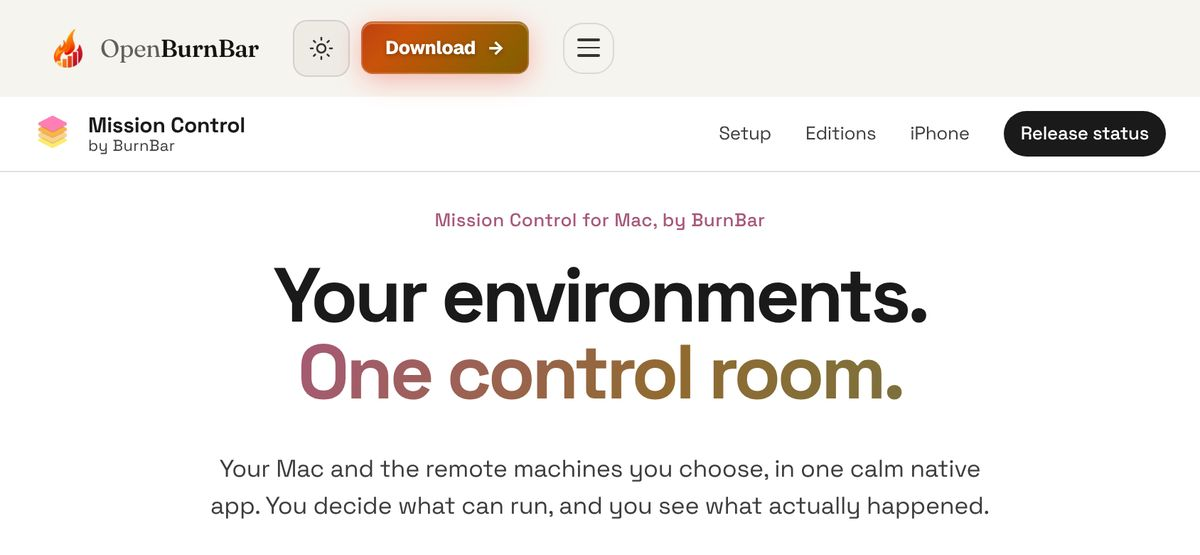
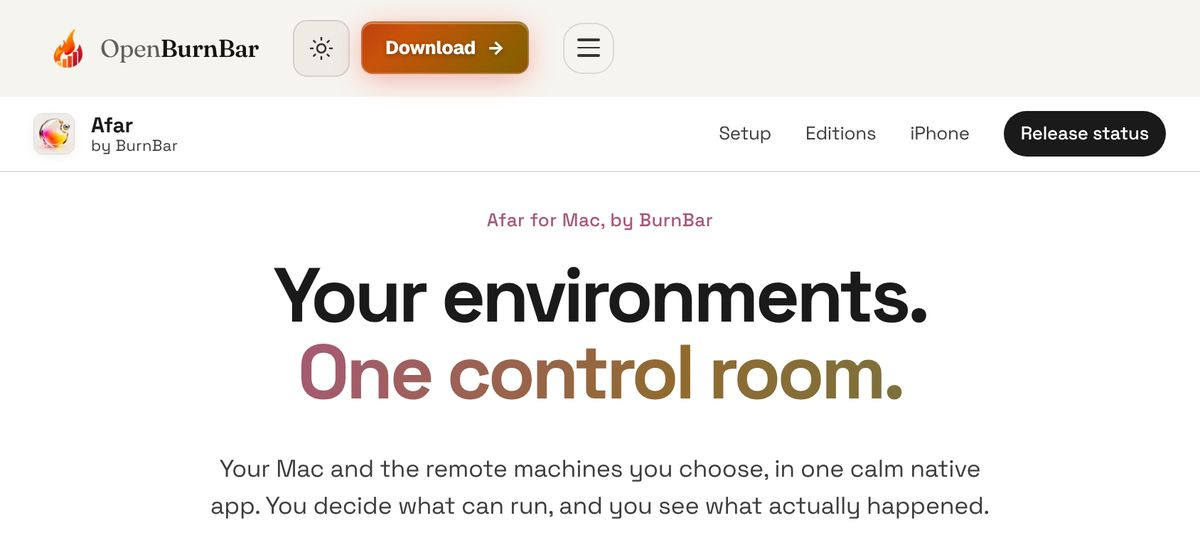
Afar: refresh page screenshots and changelog for the rebrand
Screenshots are captured against a local server sending the production
CSP. The verified-release fixture is regenerated from a temporary,
uncommitted manifest (example.com URL, dummy checksum) and is labeled as
not a real release; the committed manifest stays in preparation.

Claude-Session: https://claude.ai/code/session_01Px5bPXzWEw2hACRvbgtKyu

Changed region(s): [[0.37, 0.3676, 0.6475, 0.4288], [0.0308, 0.1838, 0.2158, 0.2757]]

diff --git a/CHANGELOG.md b/CHANGELOG.md
@@ -32,6 +32,15 @@ and this project adheres to [Semantic Versioning](https://semver.org/spec/v2.0.0
   `docs/SERVICES_DECOMPOSITION_PROGRAM.md` for the remaining waves.
 
 ### Added
+- **Afar branding on the product page** — the owner renamed Mission Control to
+  Afar and supplied the official logo. The page at `/mission-control` (address
+  unchanged) now uses Afar in its copy and product navigation, and shows the
+  official artwork as pre-rendered AVIF/WebP/PNG tiles (145 KB in total) built
+  by `website/scripts/build-afar-icons.py` from the owner-reviewed render. The
+  5.5 MB master, its reviewed 1024 px render and provenance are imported
+  byte-identical under `website/brand/afar/` with an import receipt pinned to
+  the source commit, and `website/test/afar-icons.test.ts` verifies the hash
+  chain through to every served file. The public download stays gated.
 - **Mission Control product page at `/mission-control`** — a companion page for
   the native Mac app and separate iOS client, built on the shared Po'dex token
   foundation with the pink/orange/canary palette. Its control room is a labeled

diff --git a/website/docs/mission-control-screenshots/README.md b/website/docs/mission-control-screenshots/README.md
@@ -1,9 +1,11 @@
-# Mission Control page screenshots
+# Afar page screenshots
 
-Review evidence for the Mission Control page refinement. Captured with Playwright
-(Chromium) against a local `astro preview` of `npm run build:offline` on 2026-10-15.
+Review evidence for the Afar product page (formerly Mission Control). Captured with
+Playwright (Chromium) against a local static server that sends the production
+marketing CSP, from `npm run build:offline` on 2026-10-15.
 These are images of the built page, not of a deployed site, and not of the
-native app: the control room on the page is an interactive concept.
+native app: the control room on the page is an interactive concept. The Afar logo
+in them is the owner's official artwork (see `website/brand/afar/import-receipt.json`).
 
 | File | Viewport | Theme |
 | --- | --- | --- |
